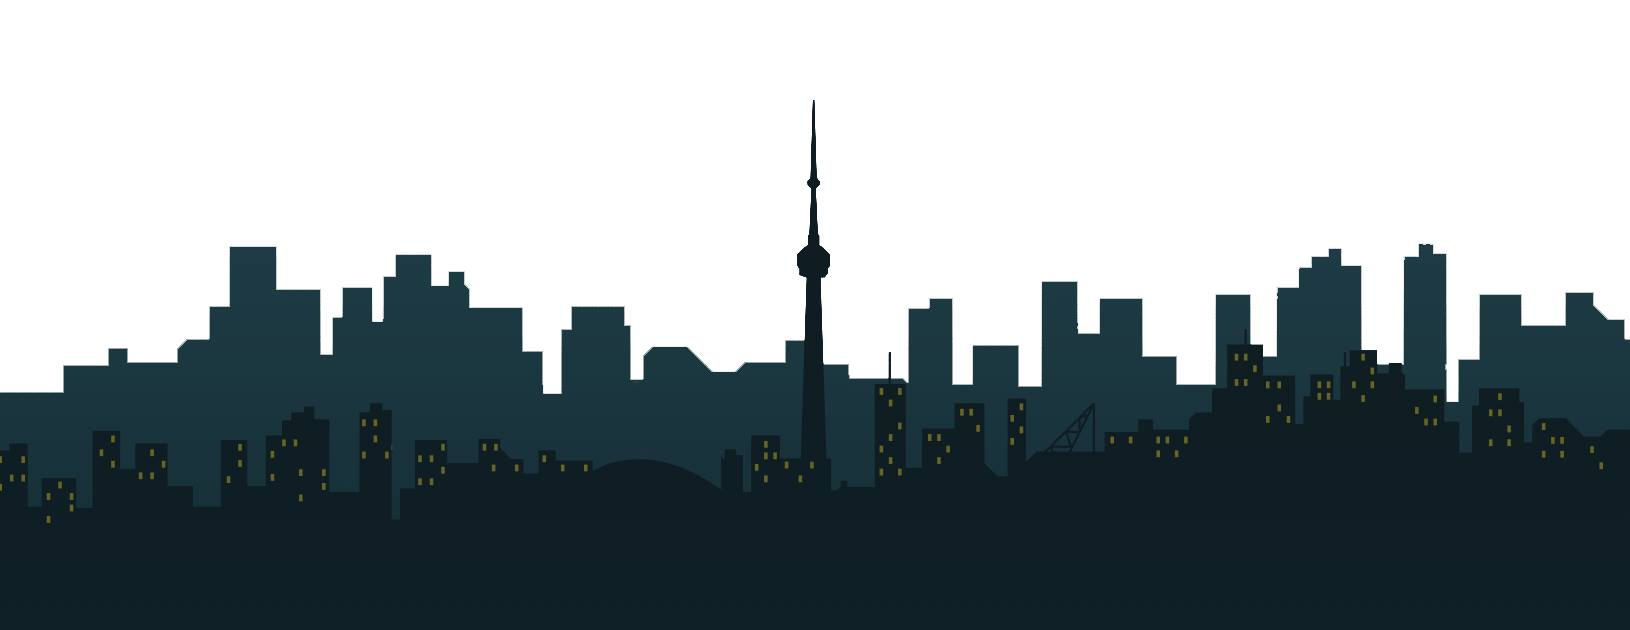
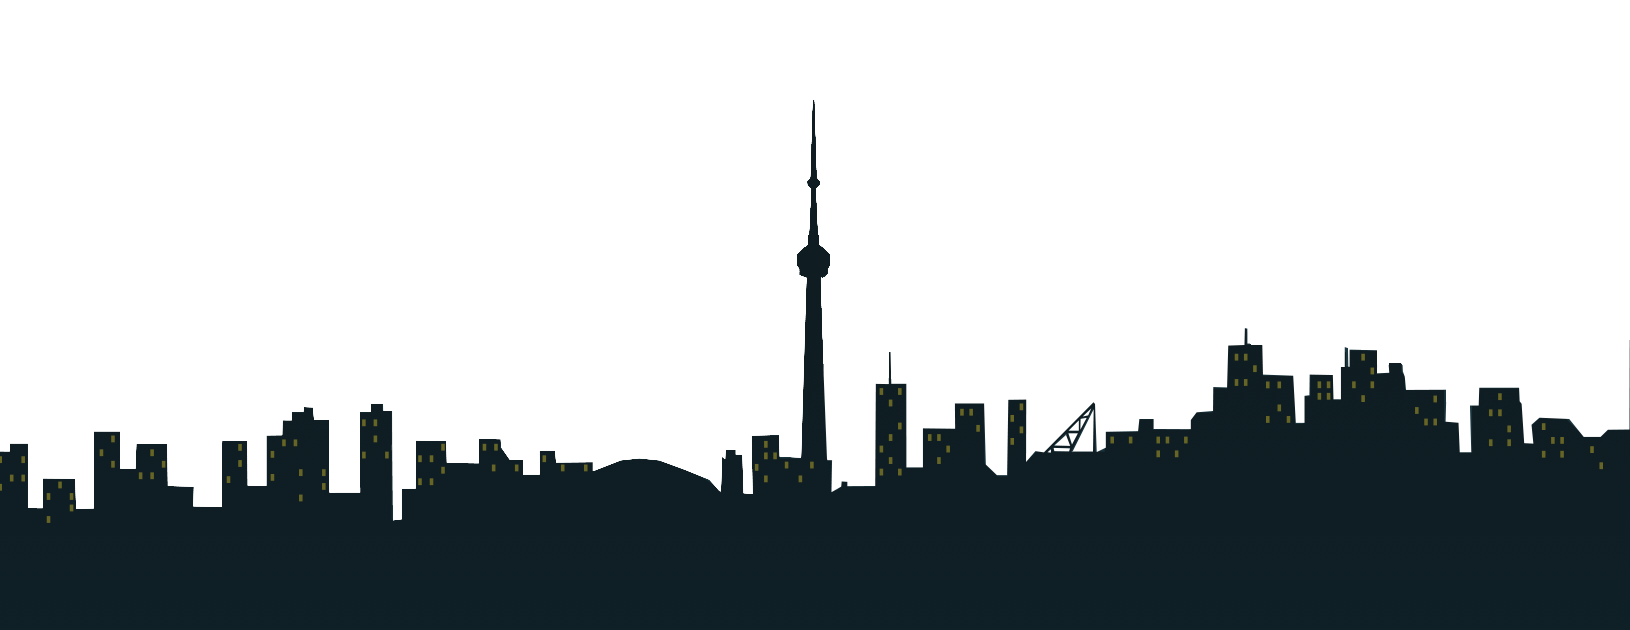
Radial added and general formatting changes
Changes index and added different effects

Changed region(s): [[0.0, 0.3921, 1.0, 0.8143]]

diff --git a/js/canvas.js b/js/canvas.js
@@ -1,6 +1,6 @@
 $(function() {
 	var maxParticles = 1500;
-	var baseVelocity = 1;
+	var animSpeed = 5000;
 	var velConstant = 16;
 
 	var canvas = document.querySelector('canvas');
@@ -15,6 +15,13 @@ $(function() {
 	var leftHand = new PlayerHand(0, 0);
 	var rightHand = new PlayerHand(0, 0);
 	
+	//Radial point
+	var colors = ['#162955', '#4F628E', '#7887AB', '#887CAF', '#226666', '#B45A81']
+	var radial = $("#background");
+	var xCoord = '1px';
+	var yCoord = '0px';
+	radial.css('margin-left', 0);
+	
 	// Initialize the starting animations
 	addNewParticles(150);
 	
@@ -26,6 +33,46 @@ $(function() {
 	
 	// Starts the loop sequence
 	loop();
+	
+	// Enables the background animation
+	$(window).click(function (){
+		if($('#foreground').css('margin-bottom') == "0px"){
+			xCoord = '0px';
+			$('#body').css('transition', 'background 20s');
+			$('#body').css('background', colors[0]);
+			setTimeout(changeColor, '20000');
+		}
+	});
+	
+	// Changes the color of the background
+	function changeColor() {
+		var color = colors[Math.floor(Math.random() * colors.length)];
+		while(color != $("#body").css("background")){
+			color = colors[Math.floor(Math.random() * colors.length)];
+		}
+		
+		$('#body').css('background', color);
+		setTimeout(changeColor, '20000');
+	}
+	
+	// Checker that it is constantly run to test if the coords need to be updated
+	function checkCoords() {
+		if(radial.css('margin-left') - xCoord <= '2px' || radial.css('margin-left') - xCoord >= '-2px'){
+			radial.css('margin-left', xCoord);
+		}
+		
+		if(radial.css('margin-left') == xCoord){
+			xCoord = Math.round($(window).width() * -0.25 + $(window).width() / 2 * Math.random()) + 'px';
+			yCoord = Math.round($(window).height() * -0.25 + $(window).height() / 2 * Math.random()) + 'px';
+			animGradient();
+		}
+	}
+	
+	// Animates the gradient ball
+	function animGradient() {
+		radial.animate({'margin-bottom': yCoord}, {duration: animSpeed});
+		radial.animate({'margin-left': xCoord}, {duration: animSpeed, queue: false});
+	}
 	
 	// The loop of the canvas which keeps it updating and animating
 	function loop(){
@@ -42,6 +89,8 @@ $(function() {
 	
 	// Update variables in a single loop instance
 	function update(){
+		checkCoords();
+		
 		for(i = 0; i < particles.length; i++){
 			// Move the particle
 			var particle = particles[i];
@@ -152,8 +201,8 @@ $(function() {
 		function createRandomParticle() {
 			var x = $(window).width() * Math.random();
 			var y = $(window).width() * Math.random();
-			var vx = baseVelocity + Math.random();
-			var vy = baseVelocity + Math.random();
+			var vx = 1 + Math.random();
+			var vy = 1 + Math.random();
 			
 			return (new Particle(x, y, vx, vy, 0, 0));
 		}
@@ -180,7 +229,7 @@ $(function() {
 		
 	// Determines if two circles collide or not
 	function circleHitDetection(pointOne, pointTwo, radiusOne, radiusTwo){
-		return (pointOne.x - pointTwo.x) * (pointOne.x - pointTwo.x) + 
+		return ((pointOne.x - pointTwo.x) * (pointOne.x - pointTwo.x) + 
 			(pointOne.y - pointTwo.y) * (pointOne.y - pointTwo.y) <= (radiusOne + radiusTwo) * radiusOne + radiusTwo);
 	}
 	

diff --git a/index.html b/index.html
@@ -4,9 +4,10 @@
     <meta charset="utf-8">
     <meta http-equiv="X-UA-Compatible" content="IE=edge">
     <meta name="viewport" content="width=device-width, initial-scale=1">
-    <title>David Jack Sheryl Heather</title>
+    <title>David Jack Cheryl Heather</title>
 
     <!-- Bootstrap -->
+	<link href='https://fonts.googleapis.com/css?family=Josefin+Sans:700' rel='stylesheet' type='text/css'>
     <link href="css/bootstrap.min.css" rel="stylesheet">
     <link rel="stylesheet" href="css/custom.css">
 
@@ -22,20 +23,17 @@
     <script src="js/bootstrap.min.js"></script>
     <script src="https://js.leapmotion.com/leap-0.6.4.js"></script>
     <script src="https://js.leapmotion.com/leap-plugins-0.1.11.js"></script>
-    <script src="js/startup.js"></script>
+    <script src="js/background.js"></script>
     <script src="js/canvas.js"></script> 
  </head>
   <body id="body">
-
-    <div class="row">
-      <img id="background" class="img-responsive" src="img/Skyline.png" alt="U of T Hacks branding">
-    </div>
-
-    <div class="row" >
-     <canvas id="canvas" ></canvas>
-    </div>
-
-
+    
+	<!-- The scenery and canvas of the website -->
+	<img id="background" class="img-responsive" src="img/radial.png"/>
+    <canvas id="canvas" ></canvas>
+    <img id="midground" class="img-responsive" src="img/Skyline2.png" alt="U of T Hacks branding"/>
+	<div><h2 id="title">A Snowy Day</h2></div>
+    <img id="foreground" class="img-responsive" src="img/Skyline.png" alt="U of T Hacks branding"/>
 
   </body>
 </html>

diff --git a/css/custom.css b/css/custom.css
@@ -1,27 +1,42 @@
 body, html {
-  height: 100%;
-  width: 100%;
-  overflow: hidden;
-  -webkit-transition: background 0.9s ;
-    -moz-transition: background 0.9s ;
-    -ms-transition: background 0.9s ;
-    -o-transition: background 0.9s ;
-    transition: background 0.9s ;
+	font-family: 'Josefin Sans', sans-serif;
+	background-color: rgb(215, 92, 106);
+	height: 100%;
+	width: 100%;
+	overflow: hidden;
+	-webkit-transition: background 1s ;
+	-moz-transition: background 1s ;
+	-ms-transition: background 1s ;
+	-o-transition: background 1s ;
+	transition: background 1.2s ;
 }
 canvas {
-  background: rgba(0, 0, 0, 0);
-  left: 0;
-  position: absolute;
-  top: 0;
-  width: 100%;
+	background: rgba(0, 0, 0, 0);
+	left: 0;
+	position: absolute;
+	top: 0;
+	width: 100%;
 }
   
 row {
-  position: relative;
+	position: relative;
+}
+
+img {
+	position: absolute;
+	left: 0;
+	bottom: 0;
 }
 
 #background {
-  position: absolute;
-  left: 0;
-  bottom: 0;
+	width: 100%;
+	margin: 0;
+}
+
+h2 {
+	font-size: 3.5em;
+	color: white;
+	margin: 1.5em auto 0 auto;
+	text-align: center;
+	
 }

diff --git a/js/background.js b/js/background.js
@@ -1,0 +1,24 @@
+$(function() {
+  var animation_speed = 1200;
+  
+  var foreground = $('#foreground');
+  var midground = $('#midground');
+  var background = $('#background');
+  
+  var wSpace = ($(window).width() - background.width()) / 2;
+  var hSpace = ($(window).height() - background.height()) / 2;
+  
+  foreground.css('margin-bottom', 0);
+  midground.css('margin-bottom', 0);
+  background.css('margin-bottom', -background.height() / 4);
+  
+  $(window).click(function (){
+    if(foreground.css('margin-bottom') == "0px"){
+		$('#title').animate({'margin-top': $(window).height() * 1.25}, animation_speed);
+		
+		foreground.delay(100).animate({'margin-bottom': -foreground.height()}, animation_speed);
+		midground.delay(300).animate({'margin-bottom': -midground.height()}, animation_speed);
+		$('#body').css('background', '#D75C6A');
+    }
+  });
+});
